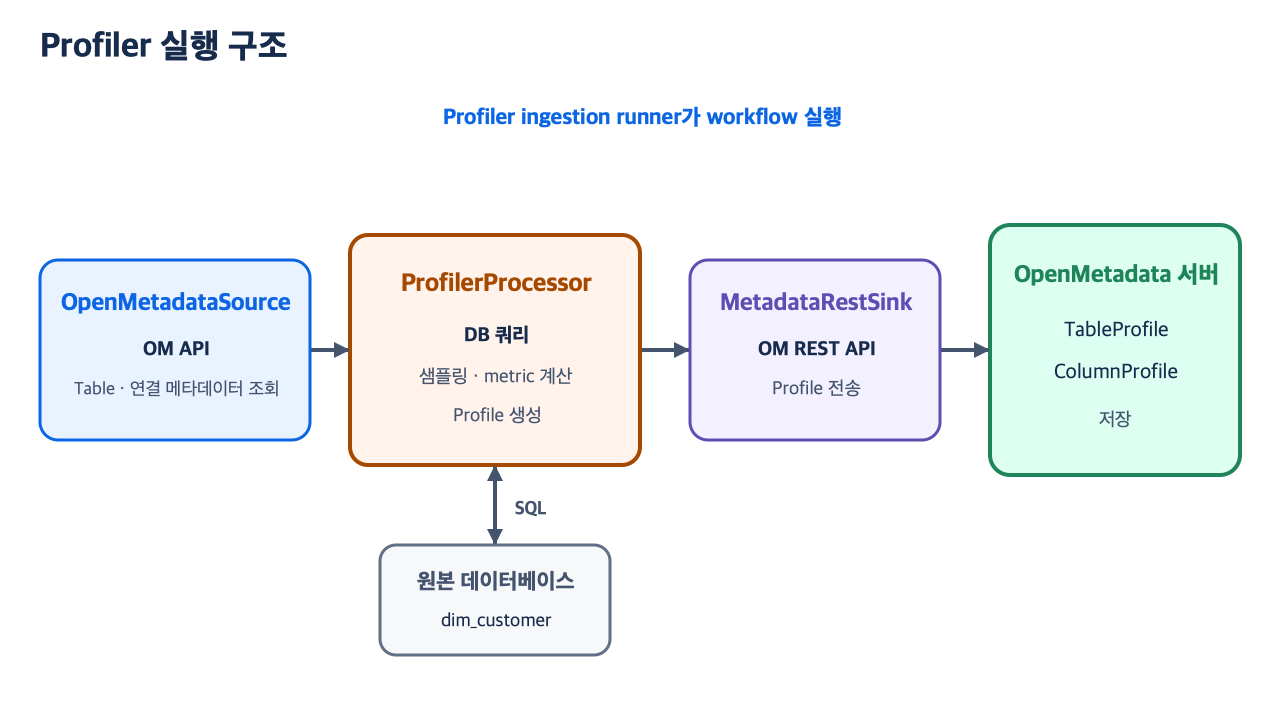
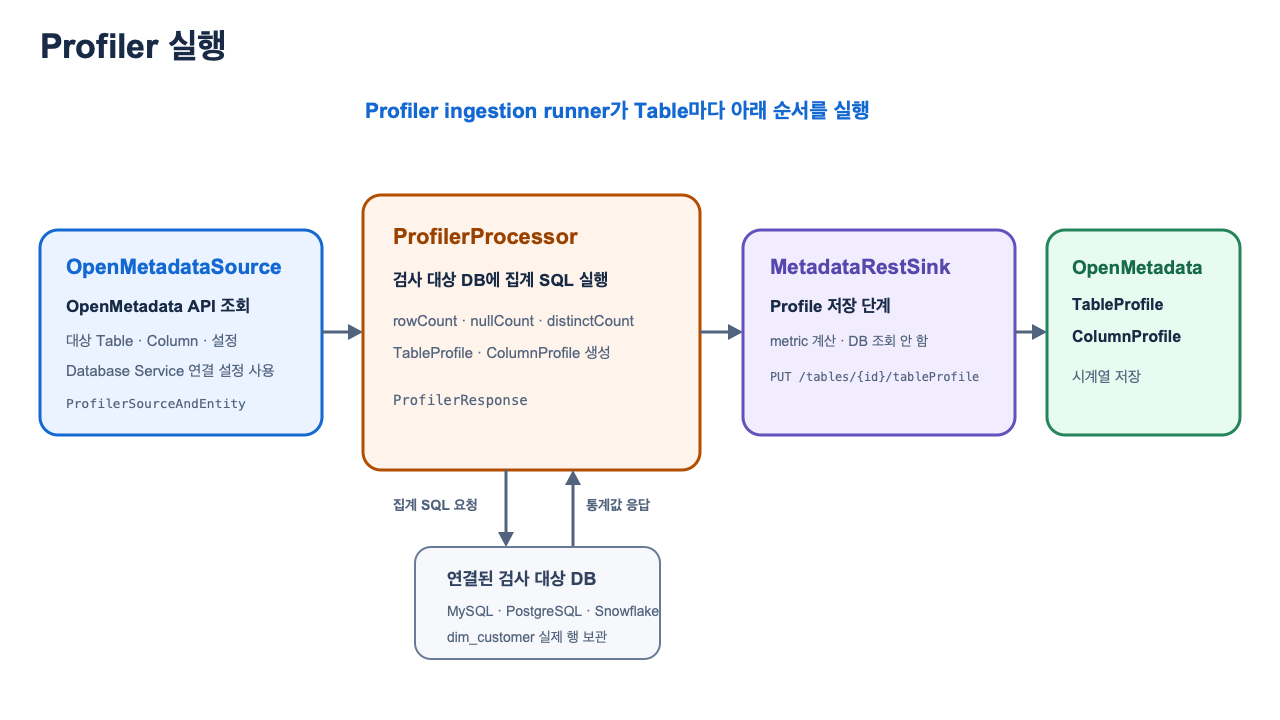
Clarify profiler suites and alert flow

diff --git a/data-quality-observability-presentation.md b/data-quality-observability-presentation.md
@@ -14,13 +14,11 @@
 4. Incident Manager
 5. Alert & Notification
 
-> `소스:`가 붙은 블록은 저장소 실제 코드에서 핵심 줄을 발췌·축약했다. 한국어 주석과 명시적인 `...` 생략 표시는 설명을 위해 추가했다. 나머지 YAML·Python·결과 블록은 설명용 예시다.
-
 이 범위의 실행 주체는 세 가지다.
 
 - **OpenMetadata server**: TestSuite·TestCase 메타데이터, Profile·Result·Incident, ChangeEvent와 Alert 설정을 저장한다.
 - **Python 실행 프로세스**: Profiler 또는 TestSuite workflow를 실행한다. UI·스케줄은 배포된 pipeline runner가, CLI·SDK는 호출한 Python 프로세스가 시작한다.
-- **Source database**: runner가 보낸 metric·test SQL에 응답한다. TestSuite나 TestCase를 저장하지 않는다.
+- **검사 대상 DB(Source database)**: `dim_customer`의 실제 행이 들어 있는 MySQL·PostgreSQL·Snowflake 같은 업무 DB다. Python 실행 프로세스가 Database Service의 연결 설정으로 이 DB에 `COUNT(*)`, `IS NULL`, `COUNT(DISTINCT ...)` 등을 포함한 집계 SQL을 보내고 결과 숫자를 받는다. TestSuite·TestCase·Profile은 이 DB가 아니라 OpenMetadata server에 저장된다.
 
 ---
 
@@ -71,13 +69,47 @@ test.setTestSuite(testSuite);
 addRelationship(
     test.getTestSuite().getId(), test.getId(), TEST_SUITE, TEST_CASE, Relationship.CONTAINS);
 
-// [4] 사용한 TestDefinition도 TestCase와 별도 관계로 저장한다.
+// [4] 선택한 TestDefinition ID와 새 TestCase ID의 연결도 저장한다.
 addRelationship(
     test.getTestDefinition().getId(), test.getId(),
     TEST_DEFINITION, TEST_CASE, Relationship.CONTAINS);
 ```
 
-> **주의**: 이 코드는 Table Suite 연결이다. Bundle Suite는 사용자가 기존 TestCase를 선택해 추가하는 별도 관계다. 검증이 실패하면 TestCase와 Table Suite 모두 생성되지 않는다.
+여기서 `TestDefinition → TestCase 관계 저장`은 UI에 새 트리를 만든다는 뜻이 아니다. OpenMetadata 내부 관계 테이블에 두 엔터티의 ID를 연결해 두는 것이다. TestCase API에 `fields=testDefinition`을 요청하면 이 관계를 다시 읽어 `testDefinition` 필드로 돌려주며, UI는 이를 **Test Type** 또는 `columnValuesToBeNotNull` 같은 Definition 이름으로 표시한다.
+
+> **주의**: 위 코드는 TestCase를 만들 때 Table Suite에 자동 연결하는 경로다. 검증이 실패하면 TestCase와 Table Suite 모두 생성되지 않는다.
+
+### 실제 코드: 기존 TestCase → Bundle Suite 추가
+
+소스:
+
+- `openmetadata-ui/src/main/resources/ui/src/rest/testAPI.ts:228-246`
+- `openmetadata-service/src/main/java/org/openmetadata/service/jdbi3/TestCaseRepository.java:1091-1111`
+
+```typescript
+// [1] UI가 Bundle Suite ID와 선택한 TestCase ID들을 PUT으로 보낸다.
+const request: BundleSuiteBulkAddRequestClass = {
+  testSuiteId,
+  mode: payload.selectAll ? BundleSuiteBulkAddMode.All : BundleSuiteBulkAddMode.IDS,
+  selection: payload.selectAll
+    ? { filter: { excludeIds: payload.excludeIds } }
+    : { ids: payload.includeIds },
+};
+const response = await APIClient.put<
+  BundleSuiteBulkAddRequestClass,
+  AxiosResponse<TestSuite>
+>(`${testCaseUrl}/logicalTestCases/bulk`, request);
+return response.data;
+```
+
+```java
+// [2] 핵심 데이터 변경은 기존 TestCase와 Bundle Suite의 CONTAINS 관계 추가다.
+bulkAddToRelationship(
+    testSuite.getId(), testCaseIds,
+    TEST_SUITE, TEST_CASE, Relationship.CONTAINS);
+```
+
+UI의 Bundle Suite를 백엔드 API에서는 `logical test suite`라고 부르므로 경로가 `logicalTestCases`다. Bundle Suite에 추가해도 TestCase의 기본 Table Suite는 그대로 유지되며, 같은 TestCase가 여러 Bundle Suite에 들어갈 수 있다. Bundle에서 제거할 때도 TestCase 자체를 지우지 않고 이 `CONTAINS` 관계만 삭제한다.
 
 ### TestDefinition과 Test Library
 
@@ -88,7 +120,7 @@ addRelationship(
 | `TABLE` | `tableRowCountToBeBetween`, `tableCustomSQLQuery`, `tableDiff` |
 | `COLUMN` | `columnValuesToBeNotNull`, `columnValuesToBeUnique`, `columnValuesToMatchRegex` |
 
-**Test Library는 TestDefinition 목록 화면**이다. 여기에 규칙이 있다는 것만으로 검사가 실행되지는 않는다. Definition을 선택해 자산별 TestCase를 만들고 pipeline 실행 대상에 포함해야 한다.
+**Test Library는 TestDefinition 목록 화면**이다. 여기에 규칙이 있다는 것만으로 검사가 실행되지는 않는다. Definition을 선택해 자산별 TestCase를 만들고, pipeline·CLI·SDK 중 하나의 Test workflow가 이를 실행해야 한다.
 
 ---
 
@@ -100,41 +132,83 @@ addRelationship(
 >
 > **실행 관리**: Settings → Services → Databases → Service → Agents
 
-`Profiler`는 metric을 계산하는 workflow이고, `Table Profile`·`Column Profile`은 저장된 결과를 조회하는 화면이다. Profile 화면을 여는 동작은 Profiler를 실행하지 않는다.
+이 문서에서 다루는 Database Service 기준으로, `Profiler`는 검사 대상 DB에 SQL을 보내 Table과 Column의 숫자 요약값을 계산하고 그 결과를 OpenMetadata server에 저장하는 Python 작업이다. 여기서 `metric`은 `rowCount`, `nullCount`, `distinctCount`처럼 데이터 상태를 나타내는 숫자 한 항목을 뜻한다.
+
+`workflow`라는 말은 이 작업을 `Source → Processor → Sink` 세 단계로 나누어 순서대로 실행한다는 뜻이다. `Table Profile`·`Column Profile` 화면은 저장된 결과를 조회할 뿐이며, 화면을 여는 동작 자체가 Profiler를 실행하지는 않는다.
+
+`OpenMetadataSource`는 Python workflow의 컴포넌트이고, **검사 대상 DB(Source database)**는 실제 행이 저장된 외부 DB다. 이름에 `Source`가 함께 들어가지만 서로 다른 대상이다.
 
 ![Profiler workflow에서 Source, Processor, Sink가 담당하는 단계](profiler-sampling.png)
 
-| 컴포넌트 | 입력 → 출력 |
-|---|---|
-| `OpenMetadataSource` | OpenMetadata의 대상 Table·Database 메타데이터 → DB 접근 객체가 포함된 작업 단위 |
-| `ProfilerProcessor` | 작업 단위 → 원본 DB에서 계산한 `TableProfile`·`ColumnProfile` |
-| `MetadataRestSink` | 계산된 Profile → OpenMetadata REST API 저장 |
+| 단계 | 실제로 하는 일 | 출력 또는 저장 결과 |
+|---|---|---|
+| `OpenMetadataSource` | OpenMetadata API에서 실행 대상 Table·Column·Profiler 설정을 조회하고, workflow에 준비된 Database Service 연결 설정으로 `ProfilerSource`를 구성 | `ProfilerSourceAndEntity`: 대상 Table과 검사 대상 DB에 접속할 객체 |
+| `ProfilerProcessor` | Profiler runner를 만들고 `process()`를 호출한다. 내부 `ProfilerInterface`가 검사 대상 DB에 집계 SQL을 실행해 Profile 요청 객체를 만듦 | `ProfilerResponse`: Table 정보와 `CreateTableProfileRequest` |
+| `MetadataRestSink` | Processor가 만든 Profile을 OpenMetadata REST API에 PUT | Profile 저장 완료. 갱신된 `Table`을 반환하며 workflow 종료 |
+
+`Sink`는 workflow의 **마지막 저장 단계**를 뜻한다. `MetadataRestSink`는 metric을 계산하지 않고, 앞 단계가 만든 결과를 받아 `PUT /api/v1/tables/{tableId}/tableProfile`로 저장한다. 이름에 `Metadata`가 붙은 이유는 저장 대상이 검사 대상 DB가 아니라 OpenMetadata server이기 때문이다.
+
+### metric을 계산할 때 DB에서 일어나는 일
+
+아래 SQL은 동작을 단순화한 개념형이다. `rowCount`는 전체 Table을 대상으로 한다. Column metric의 `<profile 대상 범위>`는 샘플링 미설정 시 전체 Table, 설정 시 `profileSampleConfig`가 선택한 범위다. 실제 쿼리는 DB 종류에 따라 합쳐지거나 달라질 수 있다.
+
+| metric | 개념 SQL | 반환값 예시 |
+|---|---|---|
+| `rowCount` | `SELECT COUNT(*) FROM dim_customer` | `12430` |
+| `nullCount` | `SELECT COUNT(*) FROM <profile 대상 범위> WHERE customer_id IS NULL` | `3` |
+| `distinctCount` | `SELECT COUNT(DISTINCT customer_id) FROM <profile 대상 범위>` | `12427` |
 
 ### 실제 코드: Source → Processor → Sink
 
 소스:
 
 - `ingestion/src/metadata/workflow/profiler.py:67-75`
+- `ingestion/src/metadata/profiler/source/fetcher/fetcher_strategy.py:320-339`
+- `ingestion/src/metadata/profiler/processor/processor.py:75-103`
 - `ingestion/src/metadata/workflow/ingestion.py:169-176`
+- `ingestion/src/metadata/ingestion/sink/metadata_rest.py:990-1002`
+- `ingestion/src/metadata/ingestion/ometa/mixins/table_mixin.py:376-389`
 
 ```python
-# [1] Source와 뒤에 실행할 Processor → Sink 순서를 구성한다.
-source_class = self._get_source_class()
-self.source = source_class.create(self.config.model_dump(exclude_unset=True), self.metadata)
-profiler_processor = self._get_profiler_processor()
-sink = self._get_sink()
+# [1] workflow는 Processor 다음에 Sink가 실행되도록 순서를 정한다.
 self.steps = (profiler_processor, sink)
 
-# [2] Source의 반환값을 첫 입력으로 사용한다.
-for record in self.source.run():
-    processed_record = record
-    for step in self.steps:
-        # [3] 이전 step의 반환값이 다음 step.run()의 입력으로 전달된다.
-        if processed_record is not None and isinstance(step, (Processor, Stage, Sink)):
-            processed_record = step.run(processed_record)
+# [2] Source 내부 EntityFetcher가 Table마다 작업 단위를 만든다.
+yield Either(
+    right=ProfilerSourceAndEntity(
+        profiler_source=profiler_source,  # 검사 대상 DB용 Profiler를 만들 객체
+        entity=table,                     # 이번에 처리할 Table
+    ),
+)
+
+# [3] Processor가 그 record를 받아 검사 대상 DB에서 metric을 계산한다.
+profiler_runner = record.profiler_source.get_profiler_runner(
+    record.entity, self.profiler_config)
+profile = profiler_runner.process()
+return Either(right=profile)  # ProfilerResponse를 반환
+
+# [4] 공통 loop가 Source 결과를 받아 Processor → Sink 순서로 전달한다.
+processed_record = record
+for step in self.steps:
+    # 앞 단계가 결과를 만들지 못했다면 다음 단계는 호출하지 않는다.
+    if processed_record is not None and isinstance(step, (Processor, Stage, Sink)):
+        processed_record = step.run(processed_record)
+
+# [5] Sink가 ProfilerResponse의 Table과 Profile을 OpenMetadata API에 저장한다.
+table = self.metadata.ingest_profile_data(
+    table=record.table,
+    profile_request=record.profile,
+)
+
+# [6] ingest_profile_data()가 실제 Profile endpoint를 호출한다.
+resp = self.client.put(
+    f"{self.get_suffix(Table)}/{table.id.root}/tableProfile",
+    data=profile_request.model_dump_json(),
+)
+return Table(**resp)
 ```
 
-> **주의**: `OpenMetadataSource`는 원본 행을 계산하지 않는다. Source가 넘긴 DB 접근 정보로 `ProfilerProcessor`가 metric SQL을 실행한다. `step.run()`이 `None`을 반환하면 뒤 단계로 전달되지 않는다.
+> **코드 읽는 법**: `Either(right=...)`의 `right`는 정상 결과를 담아 공통 workflow에 넘기는 값이다. 실제 `dim_customer` 행은 검사 대상 DB에 그대로 있고, Processor 내부 Profiler runner가 그 DB에 집계 SQL을 보낸다. 정상 경로는 `ProfilerSourceAndEntity → ProfilerResponse → REST 저장`이다. 해당 Table을 처리하다 오류가 발생해 앞 단계가 정상 결과를 만들지 못하면 `processed_record`가 `None`이므로 다음 `MetadataRestSink`를 호출하지 않는다.
 
 ### 저장되는 Profile
 
@@ -187,6 +261,23 @@ TestCase **등록**과 **실행**은 별도 동작이다.
 
 ![UI와 REST 또는 Python CRUD SDK의 사전 등록, pipeline과 YAML 또는 TestRunner의 실행 경로](test-execution-pipeline.png)
 
+그림 아래쪽의 두 상자는 같은 말을 반복한 것이 아니라, **같은 `TestSuiteWorkflow`를 시작하는 두 방법**이다.
+
+| 시작 방법 | 누가 시작하는가 | 설정은 어디에 있는가 |
+|---|---|---|
+| `Pipeline runner` | UI의 **Run Now** 또는 저장된 cron schedule | OpenMetadata server에 등록된 TestSuite pipeline |
+| `CLI YAML` / `TestRunner.run()` | 터미널 명령을 실행한 사용자 또는 Python 애플리케이션 | YAML 파일 또는 Python 코드 |
+
+`누락 Case 등록 후 즉시 실행`은 “다른 종류의 실행”이라는 뜻이 아니다. YAML이나 SDK 코드에 적은 TestCase가 Server에 없으면 **같은 명령 또는 `run()` 호출 안에서 먼저 등록하고, 이어서 그 TestCase를 실행한다**는 뜻이다. 두 시작 방법 모두 내부에서는 아래 세 단계를 사용한다.
+
+| 컴포넌트 | 실제 역할 |
+|---|---|
+| `TestSuiteSource` | Server에서 실행할 TestCase 목록, 대상 Table, Database Service 연결 정보를 조회해 `TestCaseRunner`에 전달 |
+| `TestCaseRunner` | 검사 대상 DB에 Test SQL을 실행하고 Validator로 `Success / Failed / Aborted`를 판정 |
+| `MetadataRestSink` | 판정이 끝난 `TestCaseResult`를 OpenMetadata REST API에 POST하여 저장 |
+
+### 등록 요청과 실행 명령의 차이
+
 | 방법 | Server에 등록되는 시점 | 같은 호출에서 검사 실행 |
 |---|---|---|
 | UI **Add Test** / REST `POST` | 신규 TestCase 생성 요청 시 | 안 함 |
@@ -220,7 +311,7 @@ const response = await APIClient.post<CreateTestCase, AxiosResponse<TestCase>>(
 
 `APIClient`의 base URL이 `/api/v1`이므로 실제 HTTP endpoint는 `POST /api/v1/dataQuality/testCases`다.
 
-> **주의**: Submit 뒤 조건에 따라 실행 pipeline을 추가로 만들 수는 있지만, 위 TestCase POST 자체는 원본 DB에 test SQL을 실행하지 않는다.
+> **주의**: Submit 뒤 조건에 따라 실행 pipeline을 추가로 만들 수는 있지만, 위 TestCase POST 자체는 검사 대상 DB에 test SQL을 실행하지 않는다.
 
 ### Python CRUD SDK로 사전 등록: REST PUT
 
@@ -239,7 +330,7 @@ TestCases.create(CreateTestCaseRequest(
     entityLink=EntityLink(
         "<#E::table::sample_data.ecommerce_db.shopify.dim_customer::columns::customer_id>"
     ),
-))  # [1] 내부 create_or_update()가 PUT으로 등록만 한다. Test는 실행하지 않는다.
+))  # [1] 내부 create_or_update()가 PUT으로 등록한다. Test는 실행하지 않는다.
 ```
 
 Server는 이 요청에서 Definition·파라미터·대상을 검증하고 TestCase와 Table Suite 관계를 저장한다.
@@ -373,7 +464,7 @@ self.client.post(
 )
 ```
 
-> **주의**: TestCase는 OpenMetadata server에 있지만 SQL은 Python Runner가 Source database에 보낸다. Sink는 판정이 끝난 Result만 Server에 저장한다.
+> **주의**: TestCase 정의는 OpenMetadata server에 있지만, 실제 SQL은 Python Runner가 `dim_customer` 행이 있는 검사 대상 DB에 보낸다. `MetadataRestSink`는 SQL을 실행하지 않고 판정이 끝난 Result만 Server에 저장한다.
 
 ### 판정 코드
 
@@ -426,16 +517,41 @@ failedRowsPercentage: 0.24
 >
 > **경로**: `/incident-manager` · `/table/<Table FQN>/profiler/incidents`
 
-Incident는 `Failed TestCaseResult`를 해결할 작업으로 관리한다. Python Runner가 Incident를 만드는 것이 아니라, OpenMetadata server가 **결과 POST 요청을 저장하는 중에 동기적으로** 연결한다.
-
-3절의 `MetadataRestSink → add_test_case_results() → client.post()` 호출이 아래 Server 메서드로 들어온다.
+Incident는 실패 상태와 해결 이력을 관리한다. 최초 `New`에서는 담당 Task가 없고, 사용자가 `Ack`하거나 담당자를 `Assigned`할 때 해결 Task가 생성된다. Python Runner가 Incident를 만드는 것이 아니라, OpenMetadata server가 **결과 POST 요청을 저장하는 중에 동기적으로** 연결한다.
 
 ![Failed TestCaseResult로 생성된 Incident의 New, Ack, Assigned, Resolved 상태 전이](incident-workflow.png)
 
-### 실제 코드: Result POST → Incident → 시계열 저장
+### 실제 코드 1: MetadataRestSink → Result POST
+
+3절과 같은 코드지만, Incident 생성 진입점을 바로 확인할 수 있도록 다시 표시한다.
 
 소스:
 
+- `ingestion/src/metadata/ingestion/sink/metadata_rest.py:1019-1027`
+- `ingestion/src/metadata/ingestion/ometa/mixins/tests_mixin.py:64-81`
+
+```python
+# [1] Sink가 Runner 결과에서 body와 URL에 넣을 TestCase FQN을 꺼낸다.
+for result in record.test_results or []:
+    self.metadata.add_test_case_results(
+        test_results=result.testCaseResult,                    # POST body
+        test_case_fqn=result.testCase.fullyQualifiedName.root, # URL의 {fqn}
+    )
+
+# [2] OMetaTestsMixin.add_test_case_results()가 실제 Server endpoint로 POST한다.
+self.client.post(
+    f"{self.get_suffix(TestCaseResult)}/{quote(test_case_fqn)}",
+    test_results.model_dump_json(),
+)
+```
+
+실제 요청은 `POST /api/v1/dataQuality/testCases/testCaseResults/{testCaseFQN}`이다. Server의 `TestCaseResultResource.addTestCaseResult()`가 요청을 받은 뒤 아래 `TestCaseResultRepository.addTestCaseResult()`에 위임하고, Repository가 같은 HTTP 요청 안에서 Incident 연결과 Result 저장을 처리한다.
+
+### 실제 코드 2: Result POST → Incident → 시계열 저장
+
+소스:
+
+- `openmetadata-service/src/main/java/org/openmetadata/service/resources/dqtests/TestCaseResultResource.java:90-135`
 - `openmetadata-service/src/main/java/org/openmetadata/service/jdbi3/TestCaseResultRepository.java:86-112`
 - `openmetadata-service/src/main/java/org/openmetadata/service/jdbi3/TestCaseResultRepository.java:220-228`
 - `openmetadata-service/src/main/java/org/openmetadata/service/jdbi3/TestCaseResolutionStatusRepository.java:507-542`
@@ -476,11 +592,11 @@ if (TestCaseStatus.Failed.equals(testCaseResult.getTestCaseStatus())) {
 | 상태 | 변경 주체 | 동작 |
 |---|---|---|
 | `New` | Server | 담당자 없이 Incident 시작 |
-| `Ack` | 편집 권한 사용자 | 누른 사용자를 해결 Task 담당자로 연결 |
-| `Assigned` | 편집 권한 사용자 | 선택한 User에게 해결 Task 할당 |
-| `Resolved` | 편집 권한 사용자 | Incident 완료 |
+| `Ack` | `EditTests` 또는 `EditAll` 권한 사용자 | 누른 사용자를 해결 Task 담당자로 연결 |
+| `Assigned` | `EditTests` 또는 `EditAll` 권한 사용자 | 선택한 User에게 해결 Task 할당 |
+| `Resolved` | `EditTests` 또는 `EditAll` 권한 사용자 | Incident 완료 |
 
-담당자 지정은 admin 전용이 아니다. Server API는 대상 Table 또는 TestCase에 대한 `EditTests`나 `EditAll` 권한 중 하나를 요구한다.
+정상 UI 흐름에서 `New` Incident는 실패 결과 저장 시 자동 생성되며 사용자가 별도로 만드는 단계는 없다. 이후 상태 변경과 담당자 지정은 대상 Table 또는 TestCase에 대해 `EditTests`나 `EditAll` 중 하나의 권한이 있는 사용자가 수행할 수 있다.
 
 > **주의**: 같은 TestCase의 미해결 Incident가 있으면 재실패해도 같은 ID를 사용한다. 다음 실행이 `Success`여도 기존 Incident는 자동으로 `Resolved`되지 않는다.
 
@@ -491,10 +607,33 @@ if (TestCaseStatus.Failed.equals(testCaseResult.getTestCaseStatus())) {
 > **담당 화면**: Observability → Alerts
 >
 > **경로**: `/observability/alerts`
+>
+> **Incident Task 외부 알림**: Settings → Notifications · `/settings/notifications/alerts`
 
-Alert는 실행 때마다 생성되는 메시지가 아니라 사용자가 미리 만드는 `EventSubscription` 설정이다. Incident 생성·해결이 Alert를 자동 생성하는 구조는 아니다.
+`Alert`, `ChangeEvent`, `Notification`은 서로 다른 것이다.
+
+| 용어 | 생성 시점 | 역할 |
+|---|---|---|
+| `Alert` / `EventSubscription` | 사용자가 Alert UI에서 미리 한 번 등록 | 어떤 이벤트를 어떤 조건으로 검사해 누구에게 보낼지 저장한 규칙 |
+| `ChangeEvent` | TestCaseResult 저장이나 Incident 해결 Task 변경이 발생할 때 Server가 생성 | “무슨 일이 발생했는가”를 기록한 이벤트 |
+| `Notification` | ChangeEvent가 기존 Alert 조건을 통과할 때 | Email·Slack·Webhook·인앱으로 실제 전송되는 메시지 |
+
+테스트 결과 알림은 다음 순서로 동작한다.
+
+1. 사용자가 `Source=Test Case`, `Result=Failed`, Destination을 가진 Alert를 미리 등록한다.
+2. `Failed TestCaseResult`가 저장되면 Server가 `testCase / entityUpdated / testCaseResult` ChangeEvent를 만든다.
+3. EventSubscription job이 이 이벤트를 읽어 기존 Alert의 Source·Result 조건과 비교한다.
+4. 조건이 맞을 때만 설정된 Destination으로 Notification을 전송한다.
+
+따라서 Incident가 생성되거나 해결될 때 새 Alert 규칙이 자동으로 생기는 것은 아니다. 실패 결과와 Incident 생성은 같은 Result POST 요청에서 일어나지만, **TestCase 결과 Alert는 Failed Result의 ChangeEvent를 감시**한다.
+
+`Ack`·`Assigned`에서는 해결 Task의 ChangeEvent 저장과 담당자 WebSocket 인앱 알림 전송이 별도로 일어난다. Incident Task를 Email·Slack 같은 외부 채널로 보내려면 `Settings → Notifications`에서 그 이벤트를 대상으로 한 별도 EventSubscription을 설정해야 한다.
+
+`Resolved`는 Incident 처리 상태 변경일 뿐 `Success TestCaseResult`가 아니다. 따라서 해결 동작만으로 TestCase 결과 Alert의 `Success` 조건이 실행되지는 않는다.
 
 ![Failed TestCaseResult의 Incident 동기 처리와 Event Subscription 비동기 알림 경로](alert-notification-flow.png)
+
+그림에서 `Incident 연결`은 같은 POST 안의 동기 처리이고, 실제 알림 경로는 `Result 저장 → ChangeEvent 저장 → EventSubscription scheduler`다.
 
 ### 실제 코드 1: TestCaseResult → TestCase ChangeEvent
 
